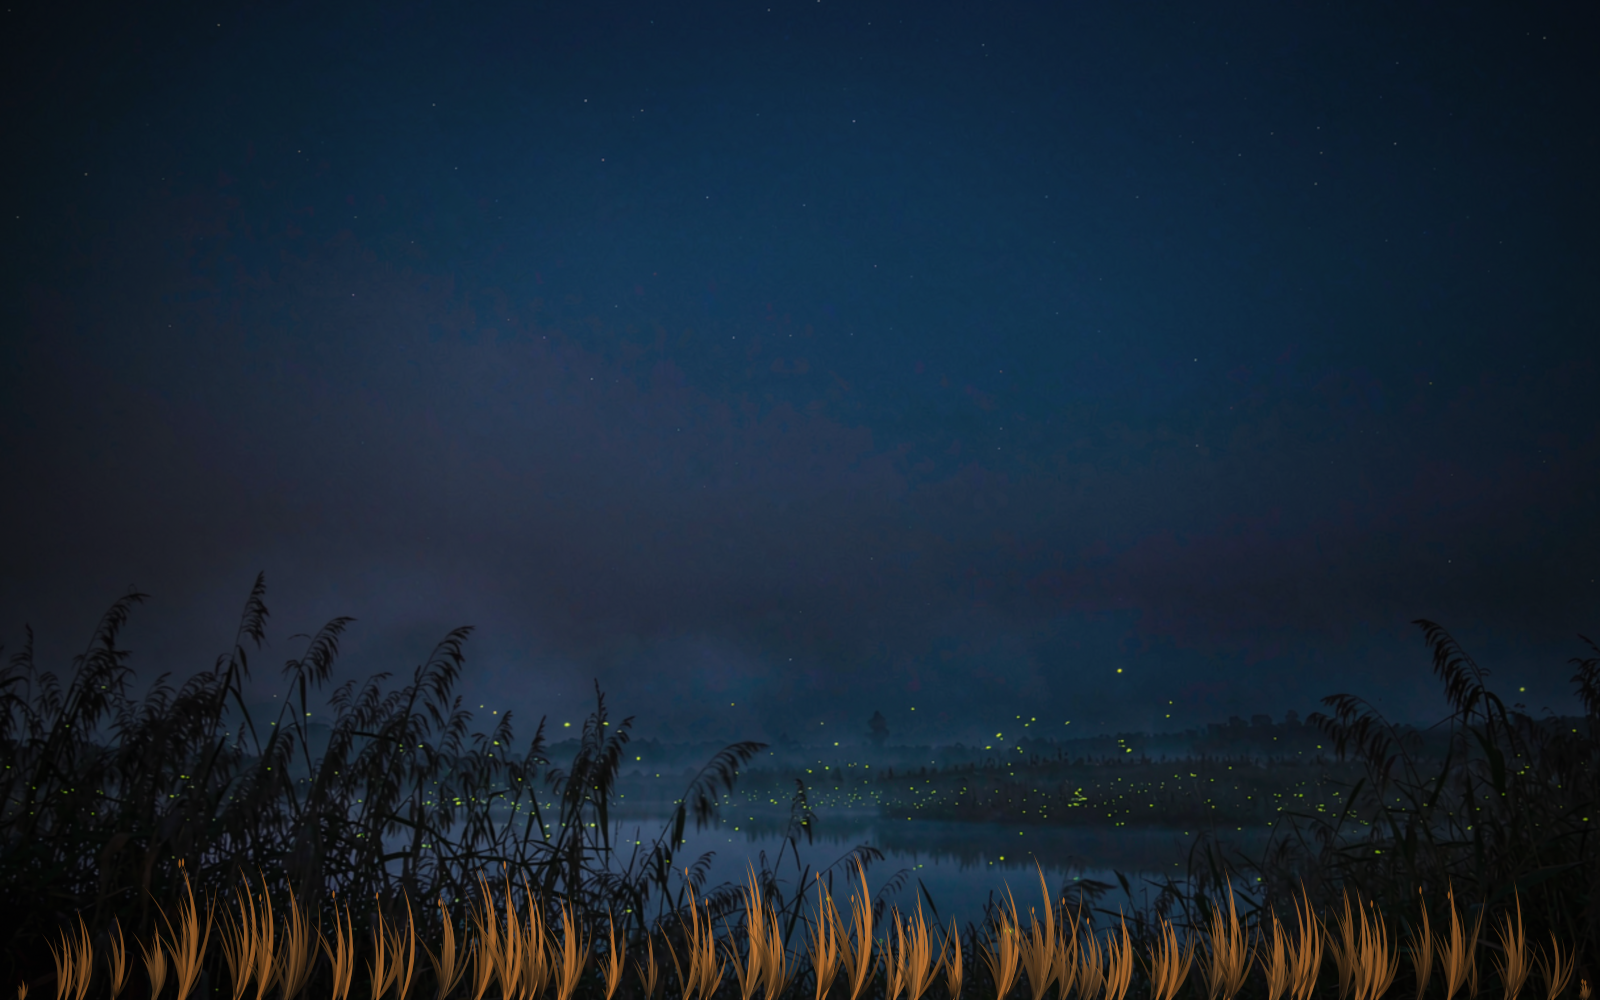
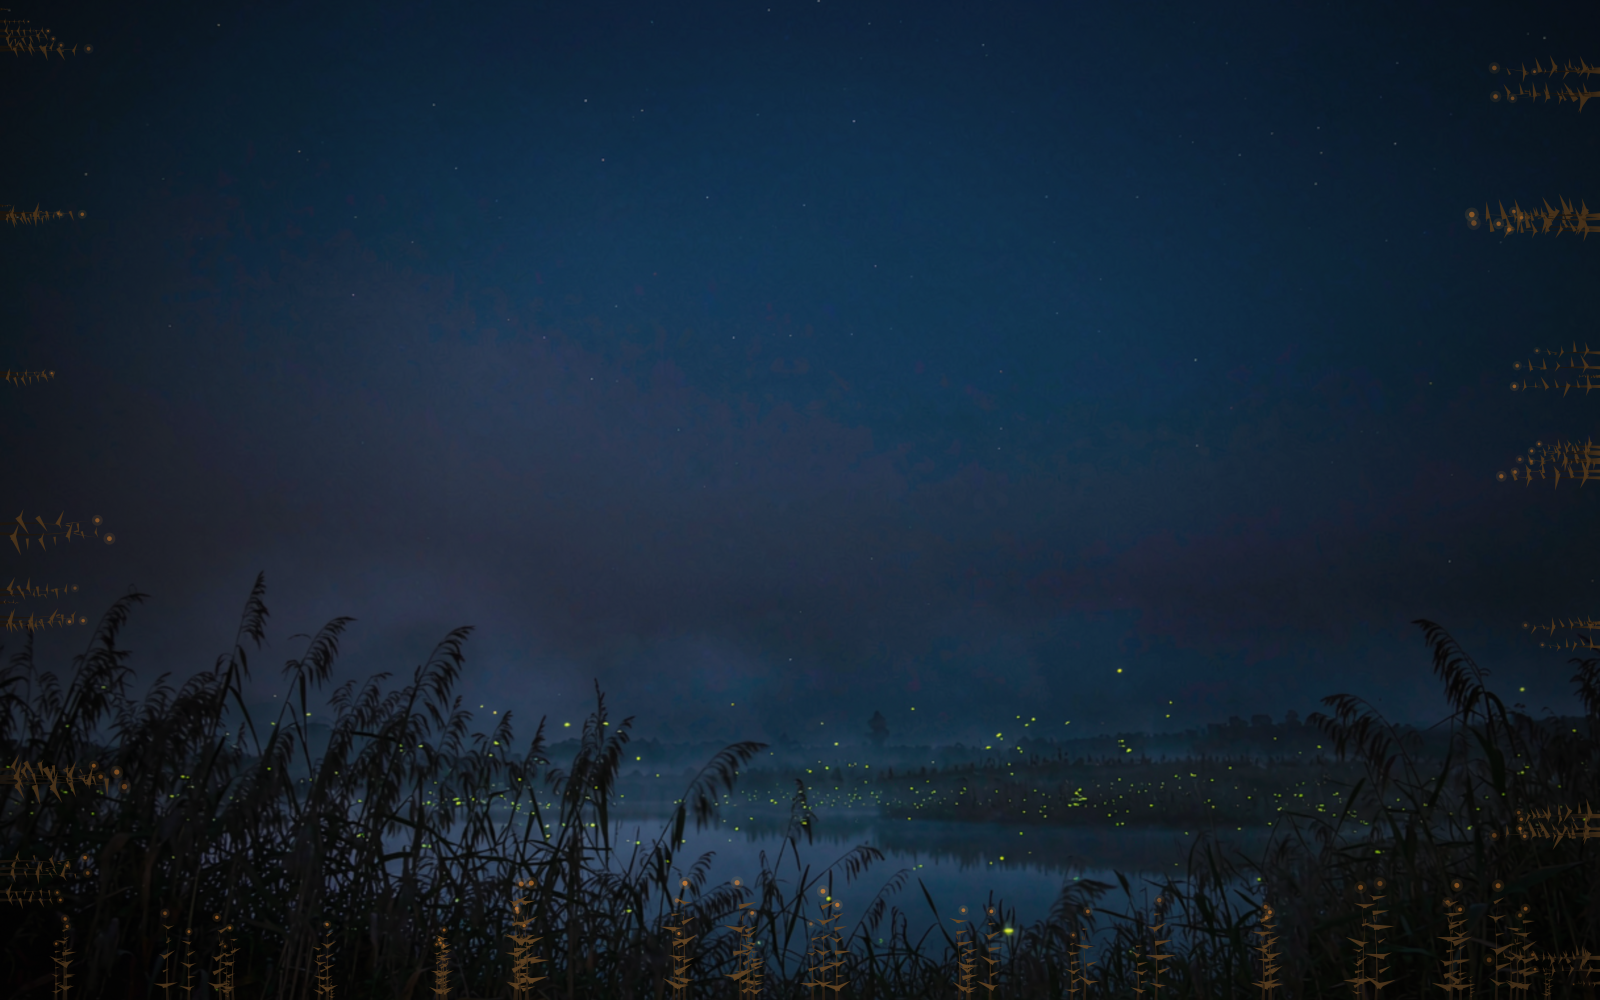
Buddies & new elements: Studio buddy picker + crystal/thorn/wave; gallery previews updated

diff --git a/studio.html b/studio.html
@@ -210,6 +210,22 @@
           </div>
         </div>
         <div class="field">
+          <label for="f-buddy">Rest buddy (the little companion)</label>
+          <select id="f-buddy">
+            <option value="" selected>none 无搭子</option>
+            <option value="ember.flame">ember.flame 火苗精</option>
+            <option value="rune.sprite">rune.sprite 符文精灵</option>
+            <option value="sea.gull">sea.gull 海鸥</option>
+            <option value="moss.mushroom">moss.mushroom 蘑菇</option>
+            <option value="snow.snowman">snow.snowman 小雪人</option>
+            <option value="sakura.butterfly">sakura.butterfly 蝴蝶</option>
+            <option value="cloud.cloudlet">cloud.cloudlet 小云朵</option>
+            <option value="bamboo.frog">bamboo.frog 青蛙</option>
+            <option value="cat.sleep">cat.sleep 猫</option>
+            <option value="droid.idle">droid.idle 机器人</option>
+          </select>
+        </div>
+        <div class="field">
           <label for="f-ritual-duration">Ritual duration (s)</label>
           <input type="number" id="f-ritual-duration" value="2.4" min="1" max="6" step="0.2">
         </div>
@@ -230,6 +246,9 @@
               <option value="cloudWisp">cloudWisp 低云</option>
               <option value="paw">paw 爪垫</option>
               <option value="firefly">firefly 萤火</option>
+              <option value="crystal">crystal 水晶簇</option>
+              <option value="thorn">thorn 荆棘</option>
+              <option value="wave">wave 浪花</option>
             </select>
           </div>
           <div class="field">
@@ -360,6 +379,7 @@ function buildJSON() {
       ambient: $('f-rest-ambient').value,
       backdrop: [hexOf('f-sky-top', '8a7a9e'), hexOf('f-sky-bottom', 'f0d9b5')],
       horizon: $('f-horizon').value,
+      buddy: $('f-buddy').value || undefined,
       focusCopy: $('f-focus-copy').value.trim(),
       doneCopy: $('f-done-copy').value.trim()
     },
@@ -491,6 +511,7 @@ $('file-import').addEventListener('change', async e => {
   if (t.ritual?.duration) put('f-ritual-duration', t.ritual.duration);
   if (t.rest?.horizon) put('f-horizon', t.rest.horizon);
   if (t.rest?.ambient) put('f-rest-ambient', t.rest.ambient);
+  if (t.rest?.buddy) put('f-buddy', t.rest.buddy);
   if (t.menuBar?.symbol) {
     const sel = $('f-symbol');
     sel.value = t.menuBar.symbol;
